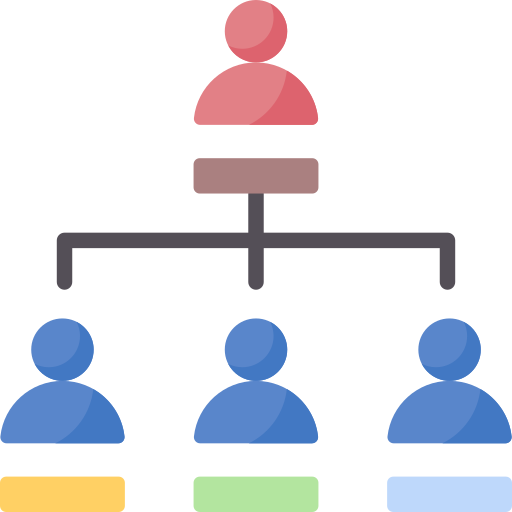
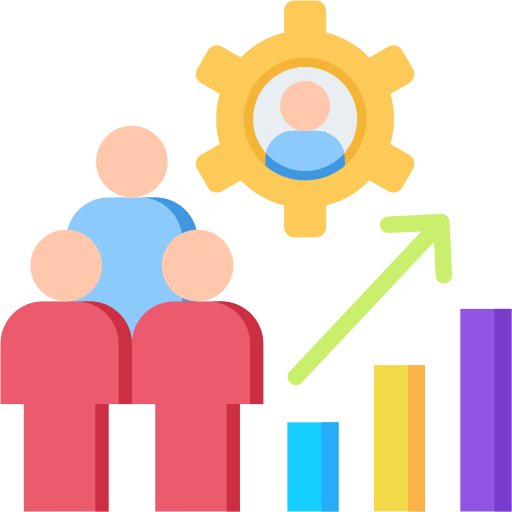
u

diff --git a/src/app/ogranization/ogranization.component.ts b/src/app/ogranization/ogranization.component.ts
@@ -12,7 +12,7 @@ import { take } from 'rxjs';
 export class OgranizationComponent implements OnInit, AfterViewChecked, OnDestroy {
 
   @ViewChild('chartWrapper', { static: false }) chartWrapper!: ElementRef<HTMLDivElement>;
-  @ViewChild('chartInner', { static: false }) chartInner!: ElementRef<HTMLDivElement>;
+  @ViewChild('chartInner', { read: ElementRef }) chartInner!: ElementRef<HTMLDivElement>;
 
   orData!: TreeNode[];
   data!: OgranizationDb[];
@@ -33,6 +33,7 @@ export class OgranizationComponent implements OnInit, AfterViewChecked, OnDestro
   }
 
   ngAfterViewChecked(): void {
+    
     if (
       !this.isScrolled &&
       this.chartWrapper?.nativeElement &&
@@ -43,9 +44,6 @@ export class OgranizationComponent implements OnInit, AfterViewChecked, OnDestro
           const wrapper = this.chartWrapper.nativeElement;
           wrapper.scrollLeft = (wrapper.scrollWidth - wrapper.clientWidth) / 2;
           this.isScrolled = true;
-          console.log('Scrolled to center');
-  
-          // ✅ Chỉ gọi autoScaleChart khi chắc chắn chartInner đã tồn tại
           this.autoScaleChart();
         }, 0);
       });
@@ -70,20 +68,16 @@ export class OgranizationComponent implements OnInit, AfterViewChecked, OnDestro
   }
 
   ngOnDestroy(): void {
-    // Nếu có subscription, hủy ở đây
+    
   }
 
   private autoScaleChart(): void {
-    // const wrapper = this.chartWrapper.nativeElement;
-    // const inner = this.chartInner.nativeElement;
-  
-    // const scaleX = wrapper.clientWidth / inner.scrollWidth;
-    // const scaleY = wrapper.clientHeight / inner.scrollHeight;
-    // const scale = Math.min(scaleX, scaleY, 1);
-    // console.log('scale',scale);
-    
-    // // Cách an toàn
-    // (inner.style as any).zoom = `${scale}`;
+    const wrapper = this.chartWrapper.nativeElement;
+    const inner = this.chartInner.nativeElement;
+    const scaleX = wrapper.clientWidth / inner.scrollWidth;
+    const scaleY = wrapper.clientHeight / inner.scrollHeight;
+    const scale = Math.min(scaleX, scaleY, 1);
+    (inner.style as any).zoom = `${scale}`;
   }
   
   
